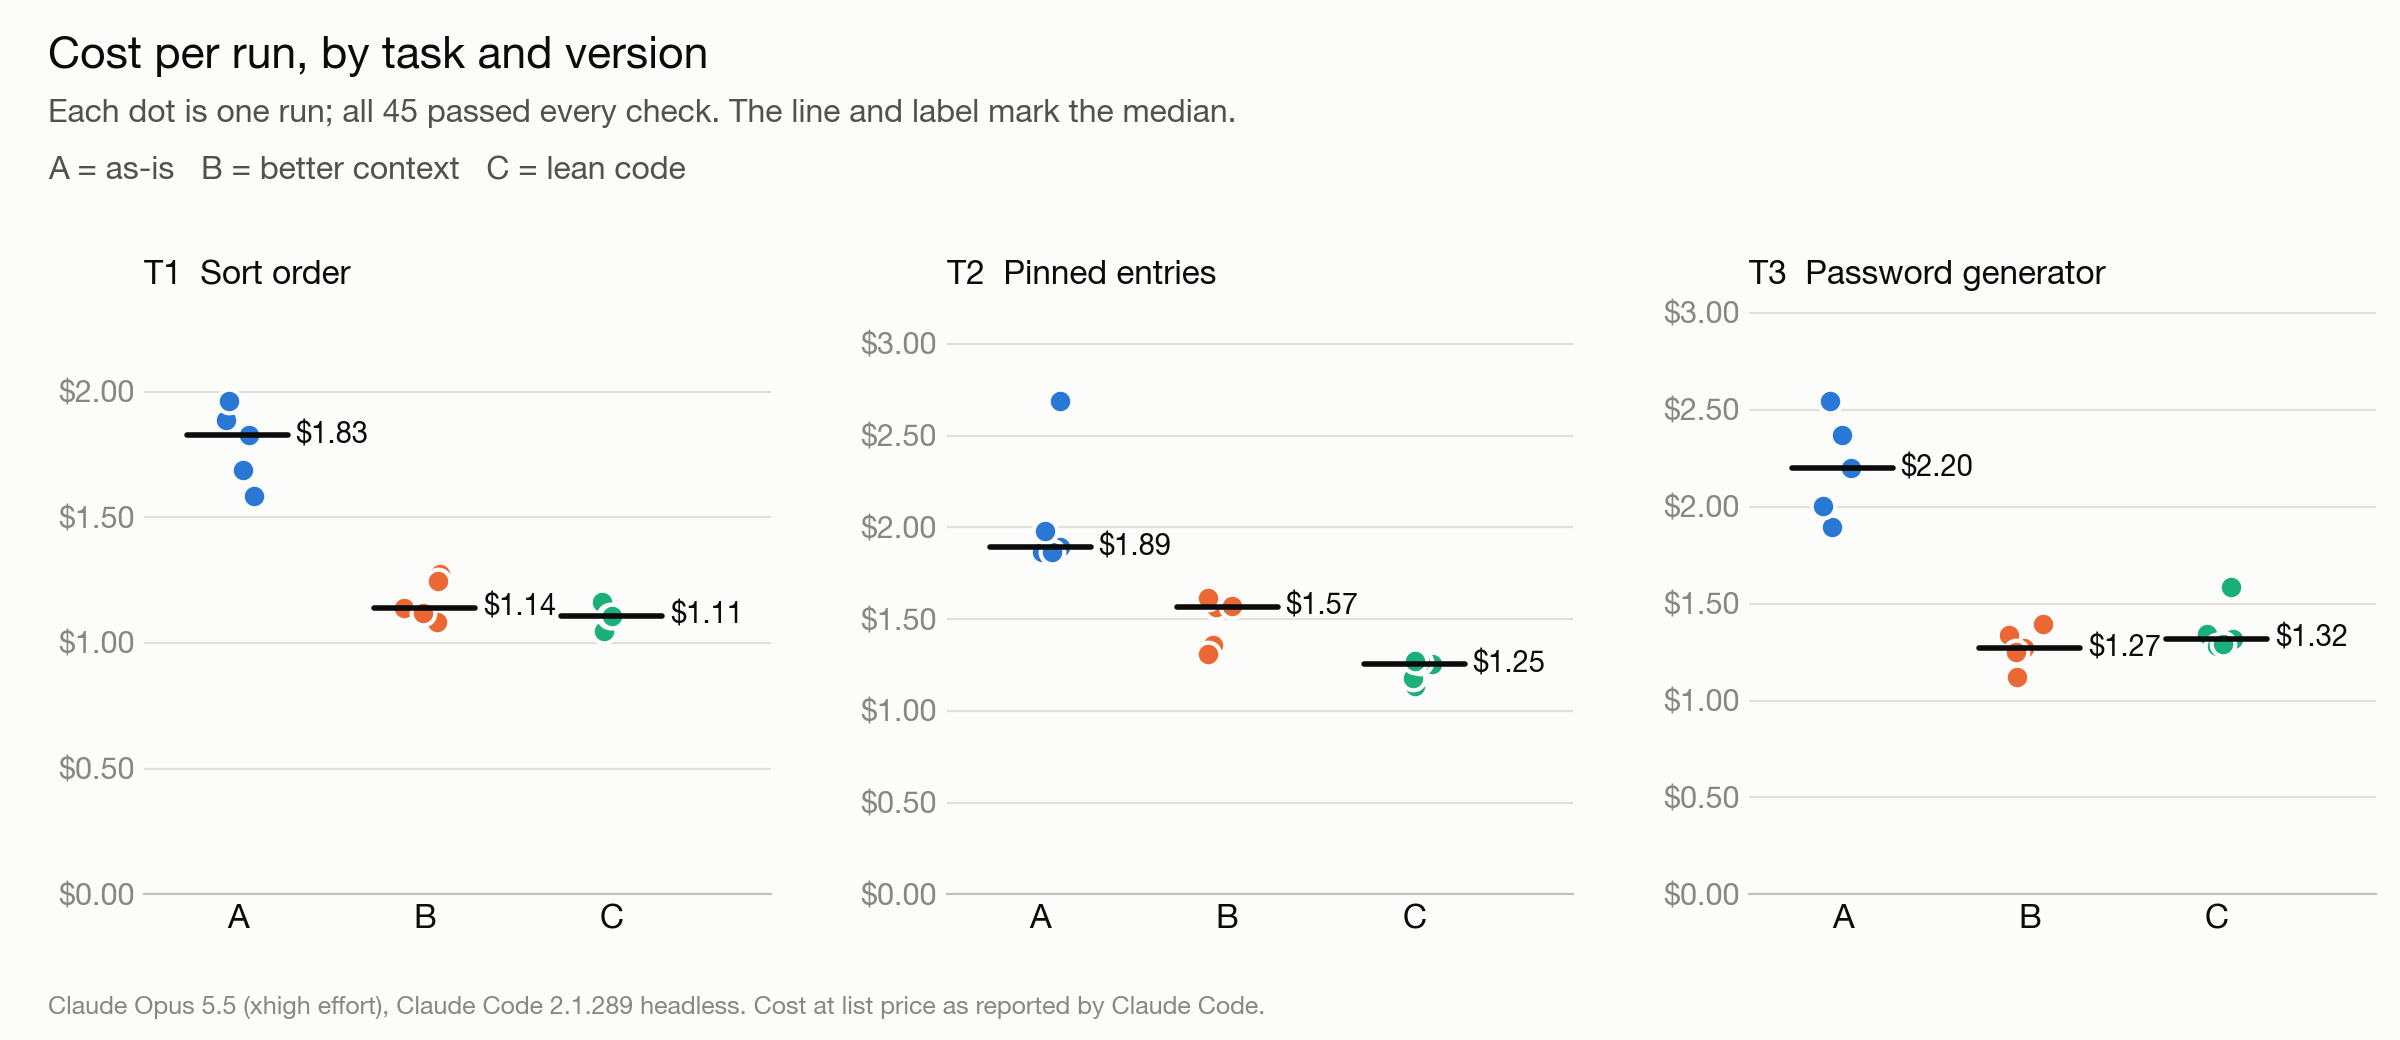
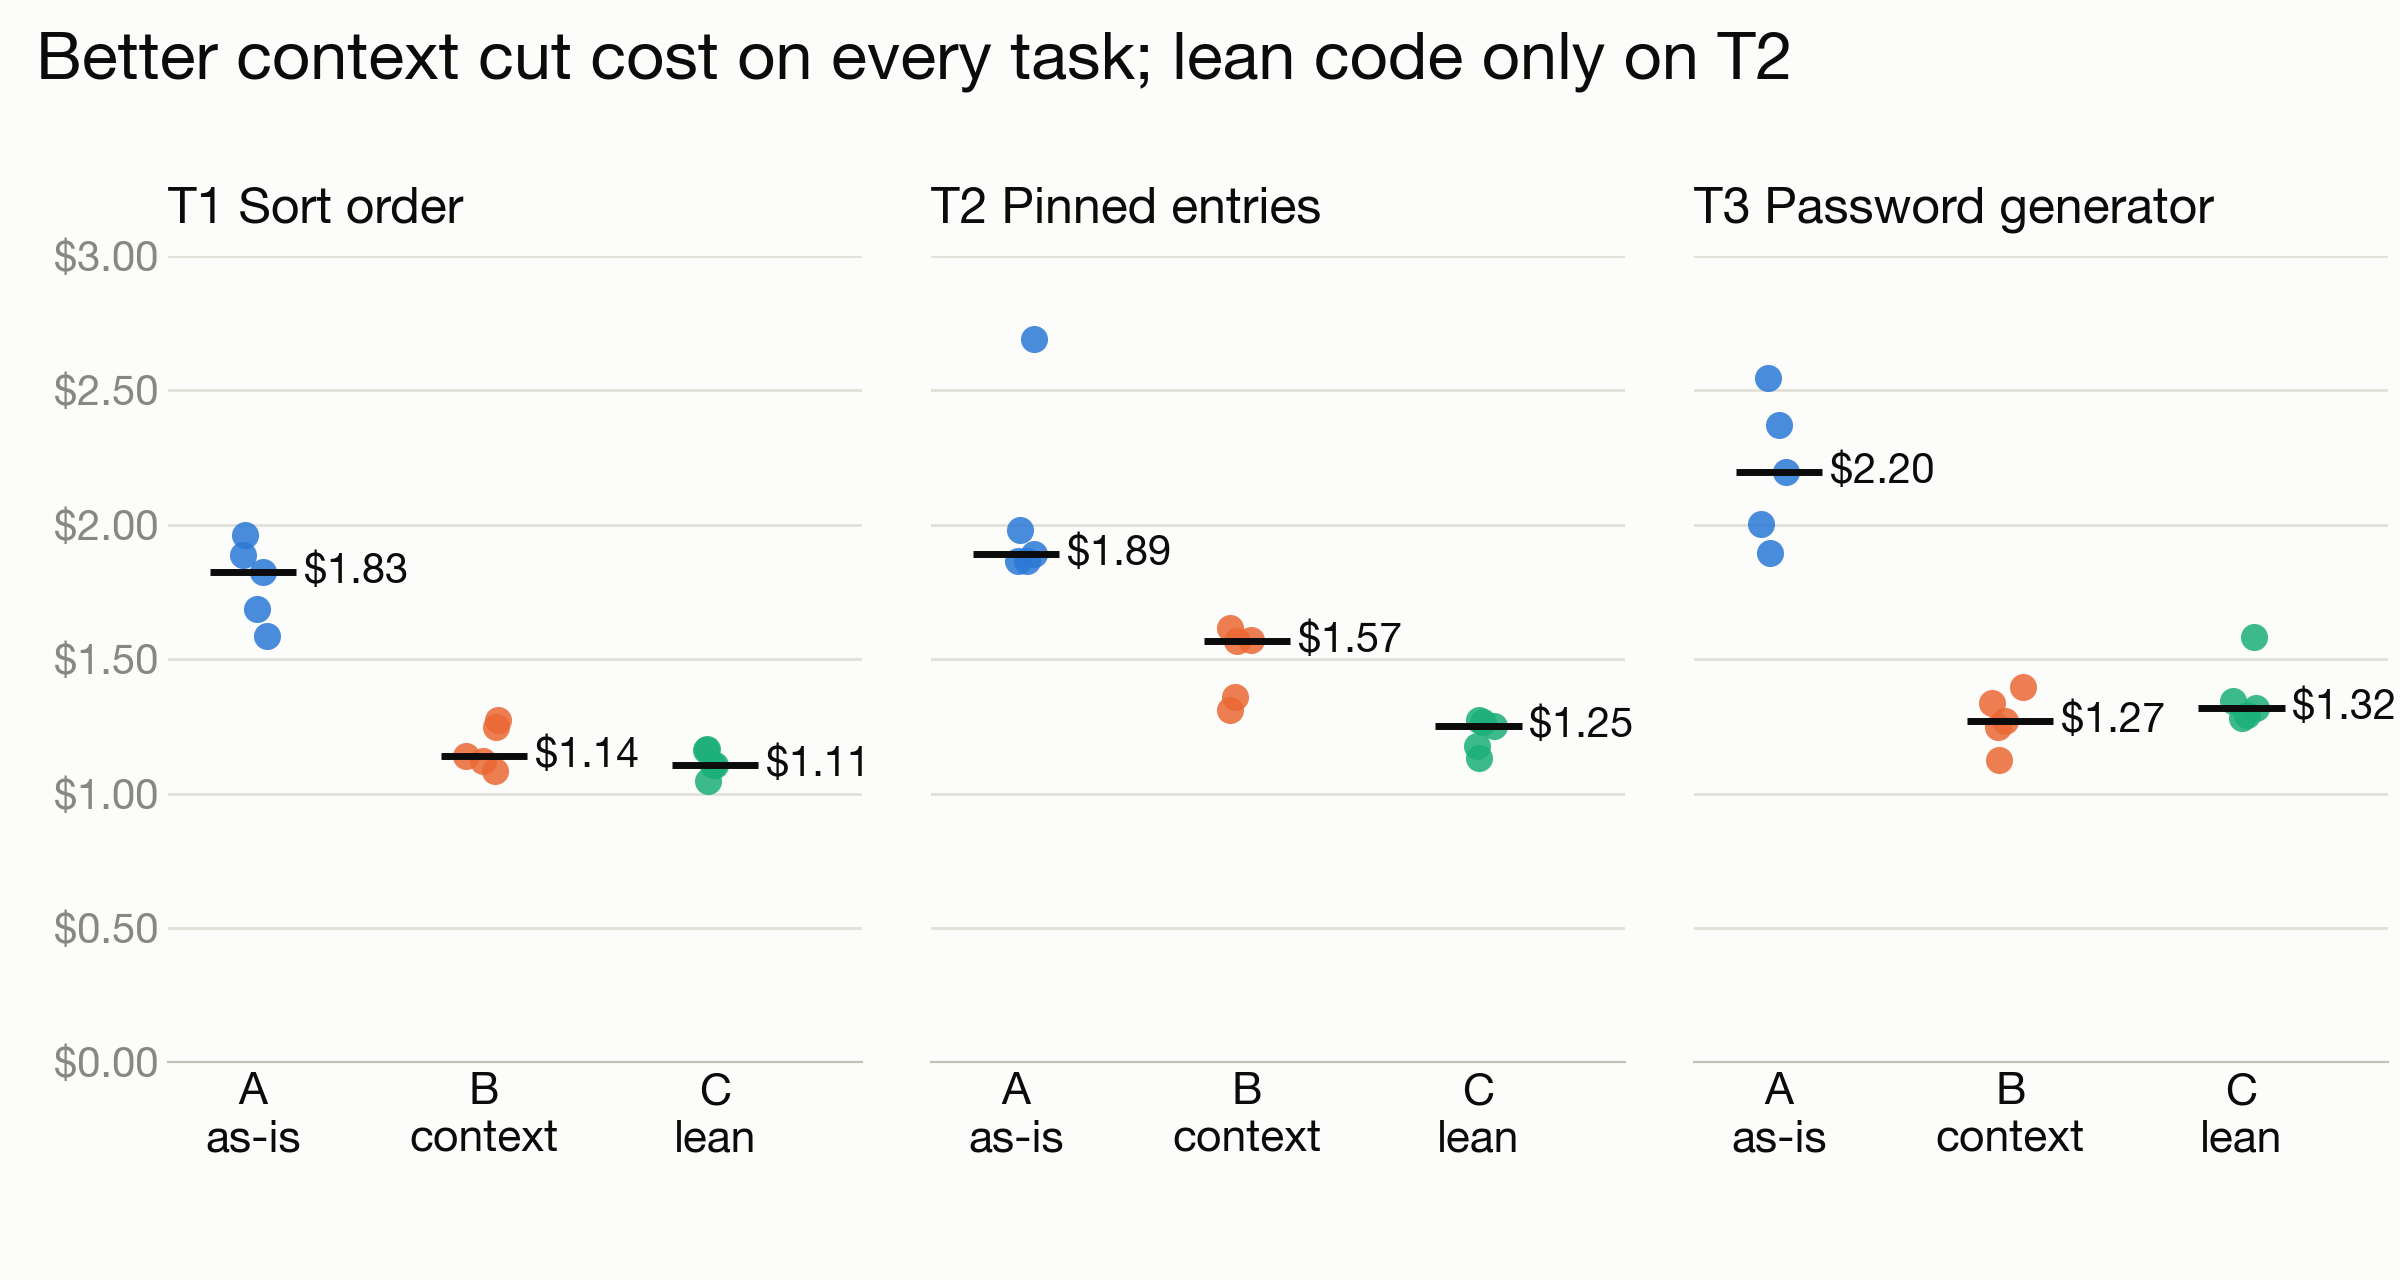
docs: correct the results summary and redraw the charts
Per-task intervals instead of a pooled ratio, the Mann-Whitney floor explained,
cost composition and limits; charts sized for Medium with a shared scale.

diff --git a/harness/plots.py b/harness/plots.py
@@ -1,7 +1,8 @@
 #!/usr/bin/env python3
-"""Charts for the article (PNG, for Medium). Run with /tmp/krypta-bench/venv/bin/python.
+"""Charts for the article (PNG sized for Medium's ~700 px column). Run with /tmp/krypta-bench/venv/bin/python.
 
 Usage: plots.py [results dir] [output dir]
+Needs stats.json (analyze.py) and decomposition.json (decompose.py) in the results dir.
 """
 import json
 import sys
@@ -20,22 +21,30 @@ OUT.mkdir(parents=True, exist_ok=True)
 SURFACE, INK, INK2, MUTED, GRID, AXIS = '#fcfcfb', '#0b0b0b', '#52514e', '#898781', '#e1e0d9', '#c3c2b7'
 ARMS = ['A', 'B', 'C']
 COLOR = {'A': '#2a78d6', 'B': '#eb6834', 'C': '#1baf7a'}
-ARM_LABEL = {'A': 'A  as-is', 'B': 'B  better context', 'C': 'C  lean code'}
+TICK = {'A': 'A\nas-is', 'B': 'B\ncontext', 'C': 'C\nlean'}
 TASKS = ['T1', 'T2', 'T3']
-TASK_LABEL = {'T1': 'T1  Sort order', 'T2': 'T2  Pinned entries', 'T3': 'T3  Password generator'}
-FOOTNOTE = 'Claude Opus 5.5 (xhigh effort), Claude Code 2.1.289 headless. Cost at list price as reported by Claude Code.'
+TASK_LABEL = {'T1': 'T1 Sort order', 'T2': 'T2 Pinned entries', 'T3': 'T3 Password generator'}
+# Parts of the bill, darkest first: one hue family so they never read as versions.
+PARTS = [('writes', 'Writing new context to the cache', '#3b3a37'),
+         ('reads', 'Re-reading the context', '#8f8d86'),
+         ('output', 'Model output', '#cfcdc4')]
 
 plt.rcParams.update({
     'font.family': ['Helvetica Neue', 'Helvetica', 'Arial', 'DejaVu Sans'],
-    'font.size': 11, 'axes.edgecolor': AXIS, 'axes.labelcolor': INK2, 'xtick.color': INK2,
-    'ytick.color': MUTED, 'axes.titlecolor': INK, 'figure.facecolor': SURFACE, 'axes.facecolor': SURFACE,
-    'savefig.facecolor': SURFACE, 'axes.spines.top': False, 'axes.spines.right': False,
-    'axes.spines.left': False, 'axes.grid': True, 'axes.grid.axis': 'y', 'grid.color': GRID,
-    'grid.linewidth': 0.8, 'grid.linestyle': '-', 'xtick.major.size': 0, 'ytick.major.size': 0,
+    'font.size': 16, 'axes.edgecolor': AXIS, 'axes.labelcolor': INK2, 'xtick.color': INK,
+    'ytick.color': MUTED, 'xtick.labelsize': 16, 'ytick.labelsize': 15, 'axes.titlecolor': INK,
+    'figure.facecolor': SURFACE, 'axes.facecolor': SURFACE, 'savefig.facecolor': SURFACE,
+    'axes.spines.top': False, 'axes.spines.right': False, 'axes.spines.left': False,
+    'axes.grid': True, 'axes.grid.axis': 'y', 'grid.color': GRID, 'grid.linewidth': 1.0,
+    'xtick.major.size': 0, 'ytick.major.size': 0,
 })
 
 
-def load():
+def title(fig, text):
+    fig.text(0.015, 0.975, text, fontsize=24, fontweight='bold', color=INK, va='top')
+
+
+def load_runs():
     runs = []
     for path in sorted(RESULTS.glob('*/meta.json')):
         m = json.loads(path.read_text())
@@ -44,112 +53,94 @@ def load():
     return runs
 
 
-def header(fig, title, subtitle):
-    fig.text(0.02, 0.965, title, fontsize=16, fontweight='bold', color=INK, va='top')
-    fig.text(0.02, 0.905, subtitle, fontsize=11.5, color=INK2, va='top')
-    fig.text(0.02, 0.02, FOOTNOTE, fontsize=9, color=MUTED, va='bottom')
-
-
 def cost_per_task(runs):
-    fig, axes = plt.subplots(1, 3, figsize=(12, 5.2), dpi=200)
-    fig.subplots_adjust(left=0.06, right=0.99, top=0.70, bottom=0.14, wspace=0.28)
+    fig, axes = plt.subplots(1, 3, figsize=(12, 6.4), dpi=200, sharey=True)
+    fig.subplots_adjust(left=0.07, right=0.995, top=0.80, bottom=0.17, wspace=0.10)
     rng = np.random.default_rng(7)
     for ax, task in zip(axes, TASKS):
-        top = max([r['total_cost_usd'] for r in runs if r['task'] == task] or [1]) * 1.18
         for i, arm in enumerate(ARMS):
-            cell = [r for r in runs if r['task'] == task and r['arm'] == arm]
-            if not cell:
+            costs = np.array([r['total_cost_usd'] for r in runs if r['task'] == task and r['arm'] == arm])
+            if not len(costs):
                 continue
-            costs = np.array([r['total_cost_usd'] for r in cell])
-            xs = i + rng.uniform(-0.11, 0.11, len(cell))
-            for x, r in zip(xs, cell):
-                ok = r.get('success')
-                ax.plot(x, r['total_cost_usd'], 'o', ms=8.5, mfc=COLOR[arm] if ok else SURFACE,
-                        mec=COLOR[arm] if not ok else SURFACE, mew=2 if not ok else 1.5, zorder=3)
+            x = i * 1.5
+            ax.scatter(x + rng.uniform(-0.12, 0.12, len(costs)), costs, s=95, color=COLOR[arm], alpha=0.85,
+                       linewidths=0, zorder=3)
             med = float(np.median(costs))
-            ax.hlines(med, i - 0.27, i + 0.27, color=INK, lw=2, zorder=4, capstyle='round')
-            ax.text(i + 0.31, med, f'${med:.2f}', va='center', ha='left', fontsize=10.5, color=INK, zorder=5)
-        ax.set_xlim(-0.5, 2.85)
-        ax.set_ylim(0, top)
-        ax.set_xticks(range(3), ARMS, fontsize=12, fontweight='bold')
-        for tick, arm in zip(ax.get_xticklabels(), ARMS):
-            tick.set_color(INK)
-        ax.yaxis.set_major_locator(matplotlib.ticker.MultipleLocator(1.0 if top > 4 else 0.5))
-        ax.yaxis.set_major_formatter(matplotlib.ticker.StrMethodFormatter('${x:,.2f}'))
-        ax.set_title(TASK_LABEL[task], loc='left', fontsize=12, fontweight='bold', pad=10)
-    failed = sum(1 for r in runs if not r.get('success'))
-    note = (f'Each dot is one run; all {len(runs)} passed every check.' if not failed
-            else 'Each dot is one run (filled = all checks passed, hollow = failed).')
-    header(fig, 'Cost per run, by task and version', note + ' The line and label mark the median.')
-    keys = '   '.join(f'{arm} = {ARM_LABEL[arm].split("  ")[1]}' for arm in ARMS)
-    fig.text(0.02, 0.85, keys, fontsize=11.5, color=INK2, va='top')
+            ax.hlines(med, x - 0.28, x + 0.28, color=INK, lw=2.5, zorder=4)
+            ax.text(x + 0.33, med, f'${med:.2f}', ha='left', va='center', fontsize=15, color=INK, zorder=5)
+        ax.set_xticks([0, 1.5, 3.0], [TICK[a] for a in ARMS])
+        ax.set_xlim(-0.55, 3.95)
+        ax.set_title(TASK_LABEL[task], loc='left', fontsize=18, fontweight='bold', pad=12)
+    axes[0].set_ylim(0, 3.0)
+    axes[0].yaxis.set_major_locator(matplotlib.ticker.MultipleLocator(0.5))
+    axes[0].yaxis.set_major_formatter(matplotlib.ticker.StrMethodFormatter('${x:,.2f}'))
+    title(fig, 'Better context cut cost on every task; lean code only on T2')
     fig.savefig(OUT / 'cost_per_task.png')
     plt.close(fig)
 
 
-def relative(stats):
-    pooled = stats.get('pooled', {})
-    measures = [('cost', 'Cost'), ('api_calls', 'API calls'), ('cache_read', 'Tokens read from cache')]
-    fig, axes = plt.subplots(1, len(measures), figsize=(12, 4.8), dpi=200, sharey=True)
-    fig.subplots_adjust(left=0.07, right=0.99, top=0.74, bottom=0.17, wspace=0.12)
-    for ax, (key, label) in zip(axes, measures):
-        data = pooled.get(key, {})
-        ax.axhline(1.0, color=COLOR['A'], lw=2, zorder=2)
-        ax.text(-0.42, 1.0, 'A = 1.0', va='bottom', ha='left', fontsize=10, color=INK2)
-        for i, arm in enumerate(['B', 'C'], start=1):
-            eff = data.get(f'A->{arm}')
+def effects(stats):
+    pairs = [('A->B', 'B', 'Better context (B vs A)'), ('B->C', 'C', 'Lean code (C vs B)')]
+    fig, axes = plt.subplots(1, 2, figsize=(12, 6.2), dpi=200, sharey=True)
+    fig.subplots_adjust(left=0.09, right=0.995, top=0.80, bottom=0.12, wspace=0.10)
+    for ax, (key, arm, label) in zip(axes, pairs):
+        ax.axhline(1.0, color=INK2, lw=1.5, zorder=2)
+        ax.text(0.4, 1.015, 'no change', ha='left', va='bottom', fontsize=14, color=INK2)
+        for i, task in enumerate(TASKS):
+            eff = (stats['effects'].get(f'{key} {task}') or {}).get('cost')
             if not eff:
                 continue
             lo, hi = eff['ci95']
-            ax.vlines(i - 0.5, lo, hi, color=COLOR[arm], lw=2, zorder=3)
-            ax.plot(i - 0.5, eff['ratio'], 'o', ms=10, mfc=COLOR[arm], mec=SURFACE, mew=1.5, zorder=4)
-            ax.text(i - 0.5 + 0.09, eff['ratio'], f'{eff["ratio"]:.2f}', va='center', ha='left',
-                    fontsize=10.5, color=INK)
-        ax.set_xlim(-0.5, 2.15)
-        ax.set_xticks([0.5, 1.5], ['B', 'C'], fontsize=12, fontweight='bold')
-        ax.set_title(label, loc='left', fontsize=12, fontweight='bold', pad=10)
-    axes[0].set_ylim(0, 1.6)
-    axes[0].yaxis.set_major_formatter(matplotlib.ticker.StrMethodFormatter('{x:.1f}'))
-    header(fig, 'Relative to the as-is version, all tasks pooled',
-           'Each run divided by version A’s median on the same task, then compared by median; bars are 95% bootstrap intervals.')
-    fig.savefig(OUT / 'relative_pooled.png')
+            ax.errorbar(i, eff['ratio'], yerr=[[eff['ratio'] - lo], [hi - eff['ratio']]], fmt='o', ms=9,
+                        color=COLOR[arm], ecolor=COLOR[arm], elinewidth=2.5, capsize=7, capthick=2.5, zorder=3)
+            change = (eff['ratio'] - 1) * 100
+            ax.text(i + 0.12, eff['ratio'], f'{change:+.0f}%', ha='left', va='center', fontsize=16, color=INK)
+        ax.set_xticks(range(3), TASKS)
+        ax.set_xlim(-0.5, 2.5)
+        ax.set_title(label, loc='left', fontsize=18, fontweight='bold', pad=12)
+    axes[0].set_ylim(0.4, 1.3)
+    axes[0].yaxis.set_major_formatter(matplotlib.ticker.FuncFormatter(lambda v, _: f'{v:.1f}×'))
+    title(fig, 'What each change did to the median cost, with 95% intervals')
+    fig.savefig(OUT / 'effects.png')
     plt.close(fig)
 
 
 def cost_components(rows):
-    parts = [('usd_cache_writes', 'Writing new context to cache'), ('usd_output', 'Model output'),
-             ('usd_history_reads', 'Re-reading the conversation'), ('usd_prefix_reads', 'Re-reading the fixed prefix')]
-    fig, axes = plt.subplots(1, len(parts), figsize=(12, 4.6), dpi=200, sharey=True)
-    fig.subplots_adjust(left=0.06, right=0.99, top=0.72, bottom=0.16, wspace=0.14)
-    top = max(np.median([r[k] for r in rows if r['arm'] == arm]) for k, _ in parts for arm in ARMS) * 1.25
-    for ax, (key, label) in zip(axes, parts):
+    fig, axes = plt.subplots(1, 3, figsize=(12, 6.6), dpi=200, sharey=True)
+    fig.subplots_adjust(left=0.07, right=0.995, top=0.72, bottom=0.17, wspace=0.10)
+    for ax, task in zip(axes, TASKS):
         for i, arm in enumerate(ARMS):
-            sel = [r[key] for r in rows if r['arm'] == arm]
+            sel = [r for r in rows if r['task'] == task and r['arm'] == arm]
             if not sel:
                 continue
-            med = float(np.median(sel))
-            ax.bar(i, med, width=0.42, color=COLOR[arm], zorder=3)
-            ax.text(i, med + top * 0.02, f'${med:.2f}', ha='center', va='bottom', fontsize=10.5, color=INK)
-        ax.set_xticks(range(3), ARMS, fontsize=12)
-        for tick in ax.get_xticklabels():
-            tick.set_color(INK)
-        ax.set_title(label, loc='left', fontsize=11.5, fontweight='bold', pad=10)
+            values = {
+                'writes': np.mean([r['usd_cache_writes'] for r in sel]),
+                'reads': np.mean([r['usd_prefix_reads'] + r['usd_history_reads'] for r in sel]),
+                'output': np.mean([r['usd_output'] + r['usd_input'] for r in sel]),
+            }
+            bottom = 0.0
+            for key, _, color in PARTS:
+                ax.bar(i, values[key], bottom=bottom, width=0.5, color=color, edgecolor=SURFACE, linewidth=2,
+                       zorder=3)
+                bottom += values[key]
+            ax.text(i, bottom + 0.05, f'${bottom:.2f}', ha='center', va='bottom', fontsize=16, color=INK)
+        ax.set_xticks(range(3), [TICK[a] for a in ARMS])
         ax.set_xlim(-0.6, 2.6)
-    axes[0].set_ylim(0, top)
+        ax.set_title(TASK_LABEL[task], loc='left', fontsize=18, fontweight='bold', pad=12)
+    axes[0].set_ylim(0, 2.6)
+    axes[0].yaxis.set_major_locator(matplotlib.ticker.MultipleLocator(0.5))
     axes[0].yaxis.set_major_formatter(matplotlib.ticker.StrMethodFormatter('${x:,.2f}'))
-    header(fig, 'Where the money goes, median per run',
-           'All tasks pooled. Every token that enters the context is written to the cache once, then re-read on every later call.')
+    title(fig, 'Most of the bill is context, not output (mean per run)')
+    handles = [matplotlib.patches.Patch(color=color, label=label) for _, label, color in PARTS]
+    fig.legend(handles=handles, loc='upper left', bbox_to_anchor=(0.01, 0.885), ncol=3, frameon=False, fontsize=15,
+               handlelength=1.2, columnspacing=1.6)
     fig.savefig(OUT / 'cost_components.png')
     plt.close(fig)
 
 
 if __name__ == '__main__':
-    runs = load()
+    runs = load_runs()
     cost_per_task(runs)
-    stats_path = RESULTS / 'stats.json'
-    if stats_path.exists():
-        relative(json.loads(stats_path.read_text()))
-    decomposition = RESULTS / 'decomposition.json'
-    if decomposition.exists():
-        cost_components(json.loads(decomposition.read_text()))
+    effects(json.loads((RESULTS / 'stats.json').read_text()))
+    cost_components(json.loads((RESULTS / 'decomposition.json').read_text()))
     print(f'{len(runs)} runs -> {OUT}')

diff --git a/README.md b/README.md
@@ -64,7 +64,7 @@ venv/bin/python harness/plots.py            # charts (needs matplotlib)
 
 `bench.py` uses `/tmp/krypta-bench` as its root; change `B` at the top to move it. Cost is the `total_cost_usd` Claude Code reports (a client-side estimate at list prices). With a subscription the runs consume plan usage instead; the scheduler waits and retries when it hits a usage limit.
 
-## Results (45 runs, all passed every check)
+## Results (45 runs; every run passed the build, the hidden tests and the review)
 
 Median cost per run at list price (Claude Opus 5.5, xhigh effort, Claude Code 2.1.289):
 
@@ -74,8 +74,11 @@ Median cost per run at list price (Claude Opus 5.5, xhigh effort, Claude Code 2.
 | T2 pinned entries (crosses layers) | $1.89 | $1.57 | $1.25 |
 | T3 password generator | $2.20 | $1.27 | $1.32 |
 
-- A to B (context only): cheaper on every task, all five runs below all five on A (Mann-Whitney p = 0.008 per task); pooled ratio 0.63 (95% CI 0.59-0.72).
-- B to C (structure): 20% cheaper on T2 (p = 0.008), no difference on T1 and T3; pooled ratio 0.96 (0.86-1.05).
-- The gap comes from reading: on A the context reached a median 129k tokens against 74-75k on B and C, and tool output entering it was 46k tokens against 25k and 23k. More than half of that extra tool output is design-system source code the agent opened (a median 14k tokens per run on A, 1.7k on B, 0.7k on C).
+- A to B (context): median cost x0.62 on T1 (95% bootstrap interval 0.57-0.75), x0.83 on T2 (0.58-0.85), x0.58 on T3 (0.49-0.70). On every task all five B runs cost less than all five A runs (Mann-Whitney p = 0.008, the floor of the test with five runs a side).
+- B to C (structure): x0.80 on T2 (0.72-0.96, no overlap); no detectable difference on T1 (x0.97, 0.87-1.04) or T3 (x1.04, 0.95-1.25).
+- Total spend over the 15 runs of each version: B 0.65 of A, C 0.61 of A.
+- Where it comes from: writing new context to the cache is 45-48% of the cost, re-reading 17-24%, output 28-37%. On A the context reached a median 129k tokens against 74-75k. The long CLAUDE.md costs about $0.20 per run against $0.07 (a fifth of the A-to-B saving); the rest is less reading: design-system source 14k tokens per run on A against 1.7k plus about 6k of index on B, and Krypta's own code about 22k against 14k (tool output estimated at four characters per token).
+
+Limits: one app, one model, three tasks (one crossing layers), five runs each; the B context was written after the tasks were fixed, which can favor B and C over A but not C over B. Details in the article.
 
 The source code of the app is not published; `results/` holds numbers only (no transcripts, diffs or file paths).
